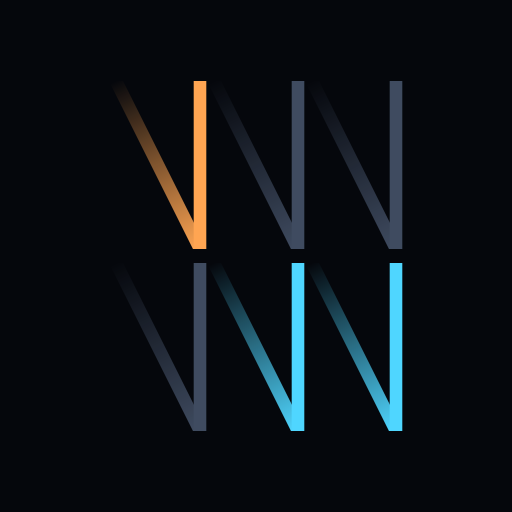
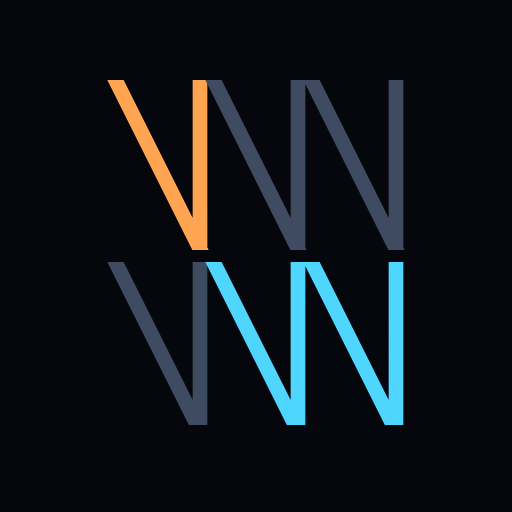
The loading screen was drawing the fourth mark, and it still had the gradient
The page paints a starfield and the lockup on a canvas while five megabytes of
engine compile, which makes it the first drawing of the mark anybody sees and
the one a player looks at for a second and a half on a cold load. It went on
fading each diagonal out toward its start, because it is JavaScript inside a
Python string in the packer and none of the passes over the mark had looked
there. Its own comment claimed every number in it had a twin in ui.lua.

It draws filled shapes now rather than stroked lines, so the flat level cut is
what it says it is, and the diagonals carry the site's 4-against-3.6 so they
land at the weight of the verticals they meet. logo_test reads the loader and
holds it to the client: no gradient, the same seven constants, the same
widening.

The Discord server icon is cut from client/web/icon.svg by icon.py, which
checked the mark by looking for stroked verticals and refused outright once
that file became filled shapes -- so the committed icon.png was still the old
gradient one. It reads the fills now, and the icon is regenerated and applied
to the live server.

Claude-Session: https://claude.ai/code/session_01KAeQhMDH3fxRHr7ok5KXhr

Changed region(s): [[0.2188, 0.1562, 0.8125, 0.8438]]

diff --git a/deploy/discord/icon.py b/deploy/discord/icon.py
@@ -3,13 +3,13 @@
 #
 #     python3 deploy/discord/icon.py            # rewrites deploy/discord/icon.png
 #
-# client/web/icon.svg is the mark, and logo_test holds it to what ui.lua draws,
-# so cutting the icon from that file rather than redrawing it keeps another
-# drawing of the mark from existing. Nothing about it changes on the way here
-# any more: the tile was chamfered at two corners and this file squared it,
-# because Discord masks a server icon to a circle and a chamfer arrives there
-# as a bite out of the rim rather than as a corner. The chamfer is gone from
-# the source now, so the icon is the mark as it stands.
+# client/web/icon.svg is the mark, and logo_test holds it to the drawing every
+# other surface carries, so cutting the icon from that file rather than
+# redrawing it keeps another drawing of the mark from existing. Nothing about
+# it changes on the way here any more: the tile was chamfered at two corners
+# and this file squared it, because Discord masks a server icon to a circle and
+# a chamfer arrives there as a bite out of the rim rather than as a corner. The
+# chamfer is gone from the source now, so the icon is the mark as it stands.
 #
 # Discord takes PNG rather than SVG. librsvg makes the raster when it is
 # available, with the screenshot browser as a fallback.
@@ -28,7 +28,7 @@ SIZE = 512
 # The tile, square. Checked rather than substituted: this file used to cut the
 # chamfer off, and what it does now is refuse to ship an icon whose tile has
 # gone back to a shape a circular mask would bite into.
-TILE = 'M0,0H512V512H0Z'
+TILE = 'M0 0H512V512H0Z'
 
 CHROME = next((p for p in ["/opt/pw-browsers/chromium",
                            "/Applications/Google Chrome.app/Contents/MacOS/"
@@ -43,10 +43,12 @@ RSVG = shutil.which("rsvg-convert")
 def cut(svg):
     """Make the source tile full bleed for Discord's circular mask."""
     svg = svg[svg.index("<svg"):]
-    # A vertical is the path whose ends share an x. There are two rows, so the
-    # three x positions each occur twice.
-    verts = sorted(set(float(m) for m in
-                       re.findall(r'<path d="M([\d.]+),[\d.]+ L\1,[\d.]+"',
+    # A vertical is a bar in the fill data: over by its width, down the row,
+    # and back. There are two rows of three, so the three x positions each
+    # occur twice. The mark used to be stroked lines here and is filled shapes
+    # now, which is the whole of why this reads the way it does.
+    verts = sorted(set(float(x) for x, _ in
+                       re.findall(r'M([\d.]+) [\d.]+h([\d.]+)v[\d.]+h-\2z',
                                   svg)))
     if len(verts) != 3:
         sys.exit(f"{SVG}: found {len(verts)} vertical positions, expected 3")

diff --git a/client/tools/single_file.py b/client/tools/single_file.py
@@ -229,7 +229,7 @@ SHIM = """
     // wedges. Orange begins the upper row, cyan finishes the lower one, and
     // the other strokes use the site's dark slate.
     // Every number here has a twin in ui.lua, and logo_test holds that one to
-    // client/web/icon.svg, so all three drawings of the mark are one shape.
+    // client/web/icon.svg, so all four drawings of the mark are one shape.
     var MK_WD = 0.50, MK_GAP = 1 / 12, MK_WEIGHT = 0.075;
     var MK_ROW = 0.48, MK_ROW_GAP = 0.04;
     var LOGO_EM = 0.74, LOGO_GAP = 0.30, LOGO_DROP = 0.12;
@@ -245,27 +245,30 @@ SHIM = """
       var baselines = [top + rh, top + 2 * rh + mh * MK_ROW_GAP];
       var hues = [[ENEMY, MUTED, MUTED], [MUTED, FRIEND, FRIEND]];
       var lw = Math.max(1, rh * MK_WEIGHT);
-      g.lineWidth = lw;
+      // Half-widths. A vertical is measured square to itself; a diagonal is
+      // measured across, because its ends are cut flat and level, and the
+      // site's mark carries the difference between the two as a pair of round
+      // numbers: 4 across a diagonal against 3.6 for a vertical. Drawn as
+      // filled shapes rather than stroked lines so that cut is what it says.
+      var hv = lw * 0.5, hd = lw * (4 / 3.6) * 0.5;
       for (var row = 0; row < 2; row++) {
         var base = baselines[row];
         for (var i = 0; i < 3; i++) {
           var x = ox + i * (MK_WD + MK_GAP) * rh;
           var col = hues[row][i];
-          var gr = g.createLinearGradient(x, base - rh,
-                                          x + MK_WD * rh, base);
-          gr.addColorStop(0, col + "00");
-          gr.addColorStop(1, col);
-          g.strokeStyle = gr;
-          g.lineCap = "butt";
+          var vx = x + MK_WD * rh;
+          // Solid, the whole way down. This faded each diagonal out toward
+          // its start, which made the page a player waits on the one place
+          // the mark was drawn differently from everywhere else it appears.
+          g.fillStyle = col;
           g.beginPath();
-          g.moveTo(x, base - rh);
-          g.lineTo(x + MK_WD * rh, base);
-          g.stroke();
-          g.strokeStyle = col;
-          g.beginPath();
-          g.moveTo(x + MK_WD * rh, base);
-          g.lineTo(x + MK_WD * rh, base - rh);
-          g.stroke();
+          g.moveTo(x - hd, base - rh);
+          g.lineTo(vx - hd, base);
+          g.lineTo(vx + hd, base);
+          g.lineTo(x + hd, base - rh);
+          g.closePath();
+          g.fill();
+          g.fillRect(vx - hv, base - rh, lw, rh);
         }
       }
     }
